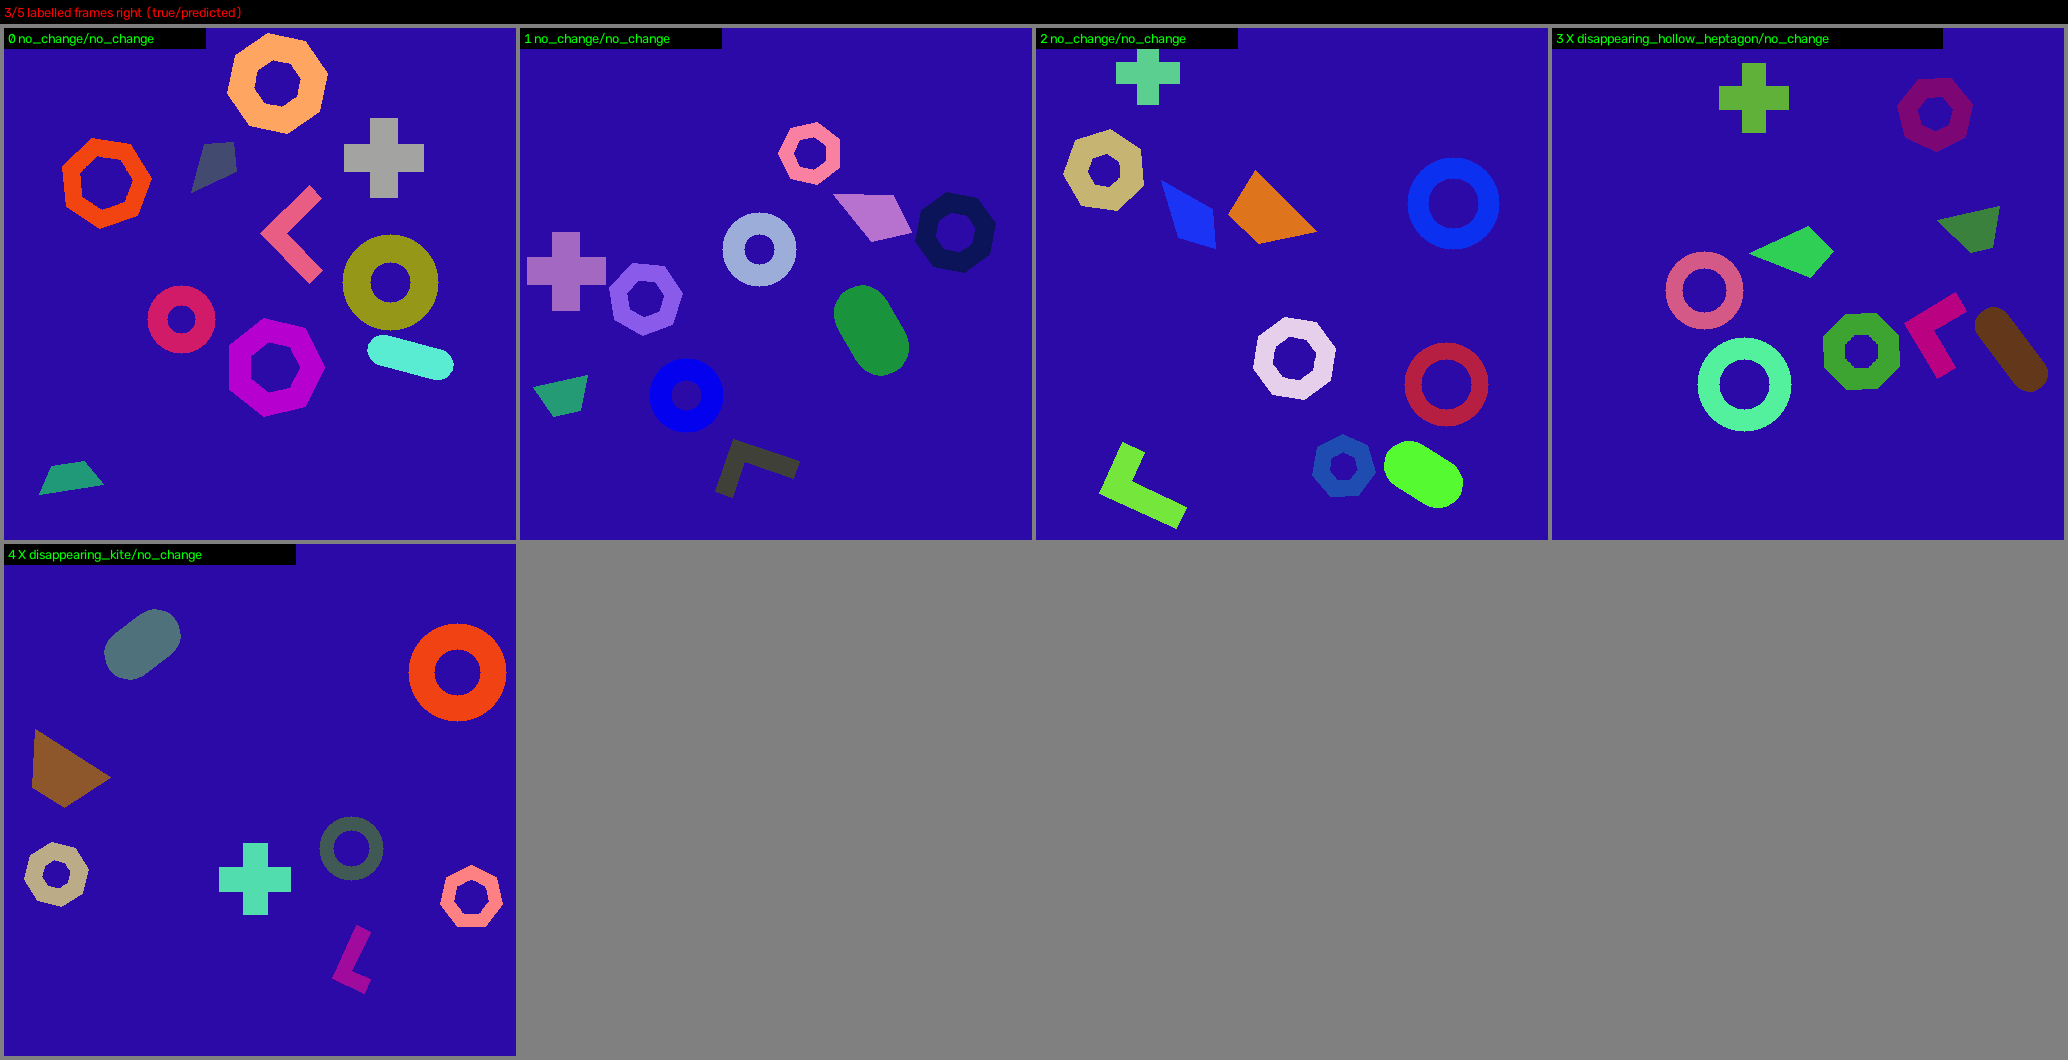
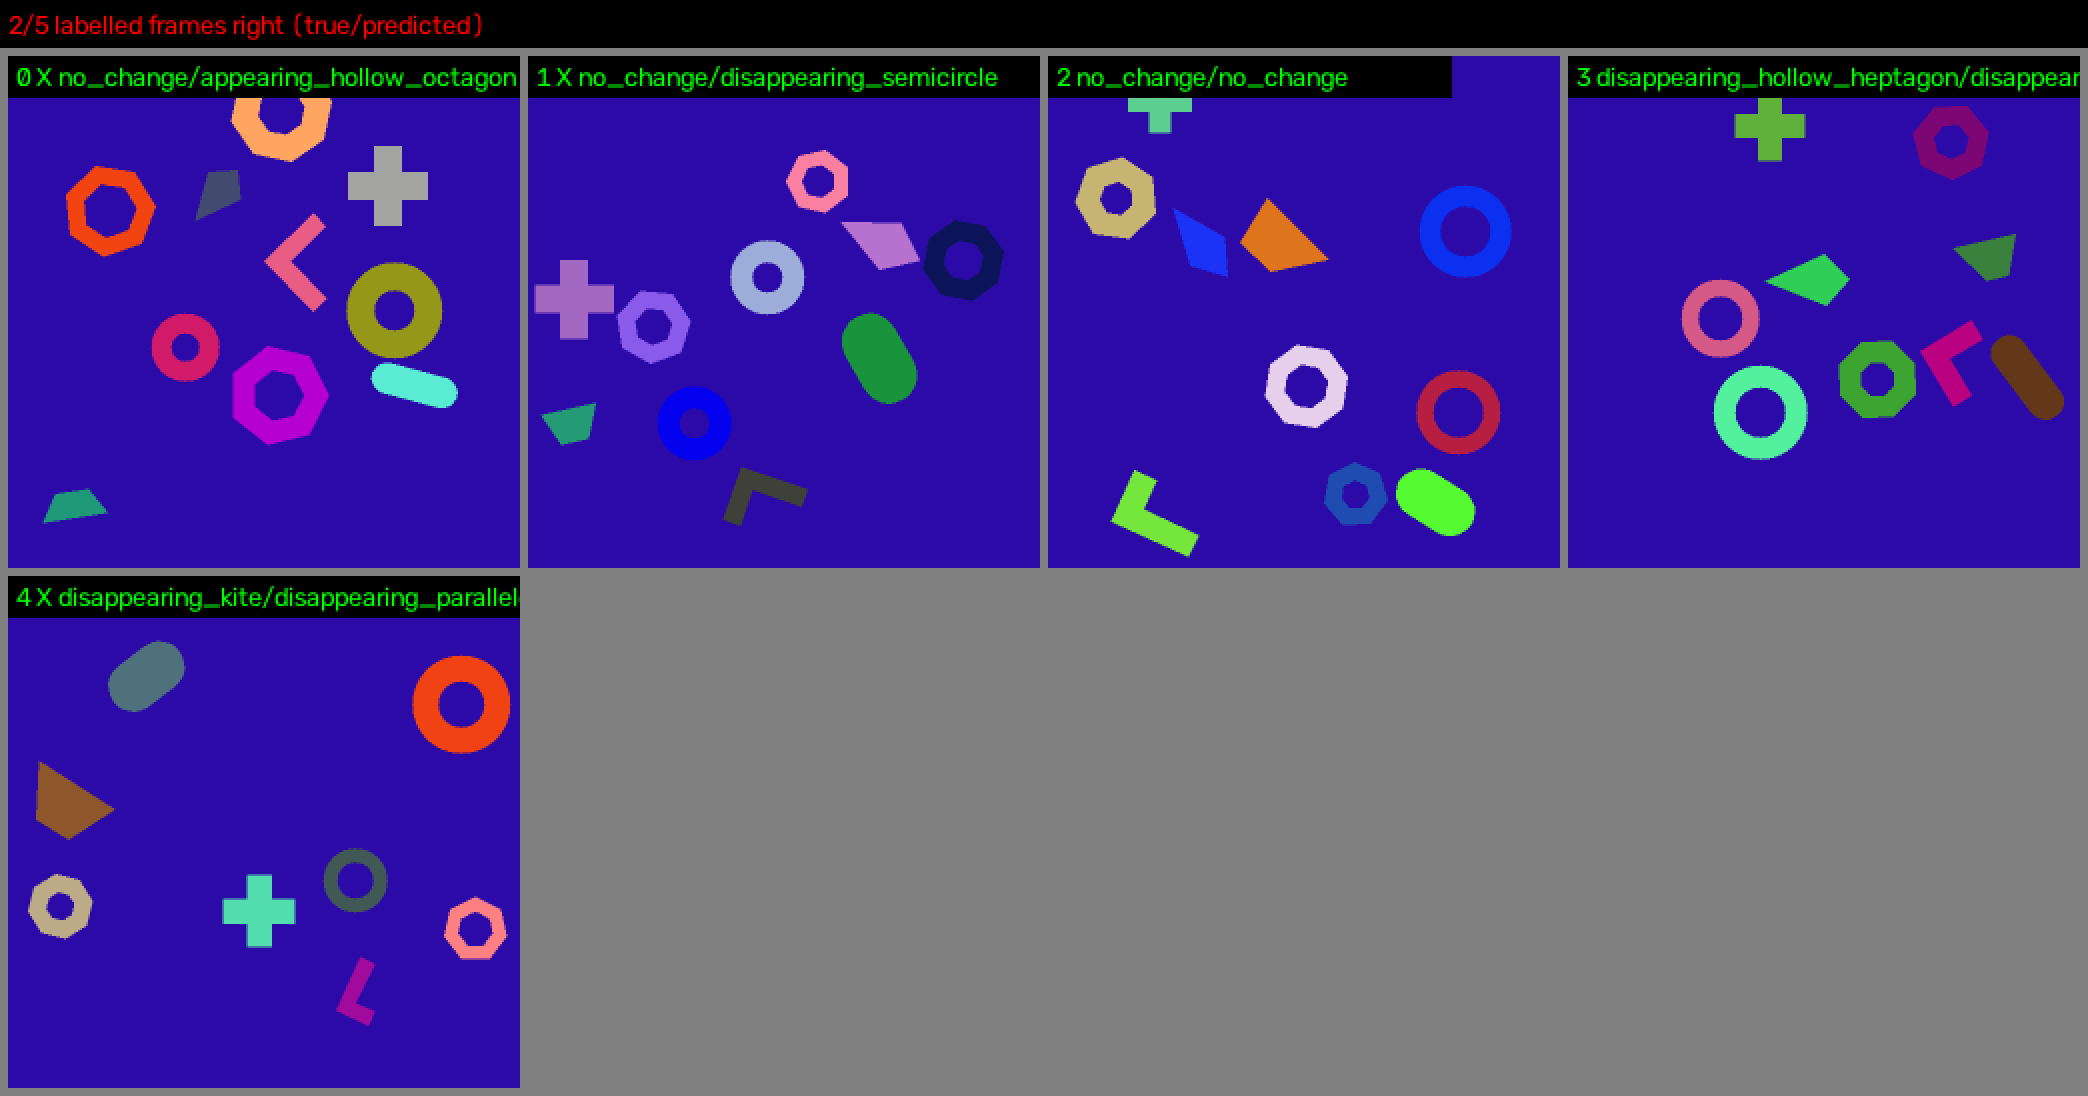
[DOCS] Take README/sequence_labelling_sample.png again from the sequence labelling tutorial run of 2026-11-15 that the tutorials keep (pretrained backbone, bidirectional LSTM 2x96, flatten, balanced class weights, accuracy 77.16 % at 2000) instead of the README-only GRU run that predicted no_change 
Claude-Session: https://claude.ai/code/session_016uCt2XTu9R5KcJCjGynGL8

diff --git a/documentation/suggestions.md b/documentation/suggestions.md
@@ -484,14 +484,15 @@ committed): every image can be taken again from them without training, except wh
     classification run into `vision_training/deployment/triton/served_models` with `helpers/export_and_measure.py
     --step=export`, start Triton from that folder (`docker compose up -d`), run the same helper with `--step=measure`,
     keep the final line of every progress bar and render them with `helpers/render_console_capture.py`.
-29. **Sequence labelling that learns** (`README/sequence_labelling_sample.png`): the synthetic configuration
-    (`sequence_labelling/configuration_synthetic_sequences.yaml`) predicts `no_change` for every frame after its 2000
-    iterations (balanced accuracy 0.014, the share of one class out of 71, the loss stopping at about 2.85), so the
-    sample shows the captions and the X of the wrong frames but its right frames are all `no_change`. The run has no
-    class weights: the sequence labelling experiment plan saw a launch without them stay at the score of a model
-    predicting only no_change, and kept balanced class weights at this run's own learning rate, 1e-3
-    (`configuration_example.yaml`). The task needs balanced class weights and a longer training before its sample is
-    taken again.
+29. **Sequence labelling that learns** (`README/sequence_labelling_sample.png`): the sample is `test_000001` of the
+    sequence labelling tutorial run of 2026-11-15 (pretrained backbone, bidirectional LSTM 2x96, flatten, balanced class
+    weights, 2000 iterations: accuracy 77.16 %, balanced accuracy 72.17 % on the 10,000 test sequences of that day),
+    enlarged twice: 2 of its 5 labelled frames right (`no_change` and `disappearing_hollow_heptagon`) and 3 marked X,
+    such as `4 X disappearing_kite/disappearing_parallelogram`. The synthetic configuration
+    (`sequence_labelling/configuration_synthetic_sequences.yaml`) keeps a GRU and `class_weighting: "none"`: run as it
+    is for 2000 iterations on 2026-10-23, it predicted `no_change` for every frame (balanced accuracy 0.014, the share of
+    one class out of 71). The sequence labelling experiment plan kept balanced class weights at its learning rate, 1e-3
+    (`configuration_example.yaml`); the synthetic configuration could take them too.
 30. **Synthetic detection runs long enough for their samples**: the detection and instance segmentation configurations
     stop at 2000 iterations, where their detections rarely reach the 0.50 score threshold of the sample images
     (mAP@0.5 of 0.31 and 0.40), the samples showing empty predictions. The README samples come from the same runs
